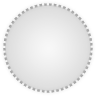
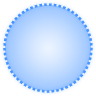
update maker range image to avoid filter in konva

diff --git a/src/components/FishListItemContent.vue b/src/components/FishListItemContent.vue
@@ -1,9 +1,9 @@
 <template>
   <v-col style="flex-direction: column">
     <v-row>
-      <v-expansion-panels hover flat :value="0">
+      <v-expansion-panels hover flat tile :value="0">
         <v-expansion-panel>
-          <v-expansion-panel-header>
+          <v-expansion-panel-header :color="color">
             <div style="display: flex; align-items: center; justify-content: center">
               <div class="text-subtitle-1">
                 {{ fish.zone }}
@@ -19,7 +19,7 @@
               </div>
             </div>
           </v-expansion-panel-header>
-          <v-expansion-panel-content>
+          <v-expansion-panel-content :color="color">
             <div>
               <!--              <div style="height: 400px; width: 100%; margin-top: 12px">-->
               <!--                <eorzea-map-->
@@ -33,7 +33,7 @@
               <!--                </eorzea-map>-->
               <!--              </div>-->
 
-              <div style="height: 1000px; width: 100%; margin-top: 12px">
+              <div style="width: 100%; margin-top: 12px">
                 <eorzea-simple-map
                   :debug="false"
                   :id="fish.fishingSpot.mapFileId"
@@ -79,15 +79,15 @@
     </div>
     <!--    </v-row>-->
     <v-row v-if="fish.hasCountDown">
-      <v-expansion-panels hover flat>
+      <v-expansion-panels hover flat tile>
         <v-expansion-panel>
-          <v-expansion-panel-header>
+          <v-expansion-panel-header :color="color">
             <div style="display: flex; justify-content: center">
               <div><v-icon>mdi-calendar</v-icon> {{ $t('countDown.fishWindowBtn') }}</div>
             </div>
           </v-expansion-panel-header>
-          <v-expansion-panel-content>
-            <v-simple-table>
+          <v-expansion-panel-content :color="color">
+            <v-simple-table :class="color" dense dark>
               <template v-slot:default>
                 <thead>
                   <tr>
@@ -207,6 +207,10 @@ export default {
       type: Array,
       default: () => [],
     },
+    color: {
+      type: String,
+      default: '',
+    }
   },
   data: () => ({
     fisher: fisher,

diff --git a/src/components/basic/EorzeaSimpleMap.vue b/src/components/basic/EorzeaSimpleMap.vue
@@ -16,7 +16,7 @@ import DataUtil from '@/utils/DataUtil'
 import fishMarker from '@/assets/fishingSpot.png'
 import markerRange from '@/assets/markerRange.png'
 import defaultMap from '@/assets/default.00.jpg'
-import Konva from 'konva'
+// import Konva from 'konva'
 
 export default {
   name: 'EorzeaSimpleMap',
@@ -117,10 +117,10 @@ export default {
         height: 96,
         scaleX: this.markerRangeFactor,
         scaleY: this.markerRangeFactor,
-        filters: [Konva.Filters.RGB],
-        red: 3,
-        green: 168,
-        blue: 244,
+        // filters: [Konva.Filters.RGB],
+        // red: 3,
+        // green: 168,
+        // blue: 244,
       }
     },
     allImageLoaded() {
@@ -163,12 +163,10 @@ export default {
     },
     resize() {
       const rect = this.$refs.container.getBoundingClientRect()
-      this.containerWidth = rect.width
-      this.containerHeight = Math.min(rect.width, rect.height)
-
-      const markerRangeNode = this.$refs.markerRangeNode.getNode()
-      markerRangeNode.cache()
-      markerRangeNode.getLayer().batchDraw()
+      this.containerHeight = this.containerWidth = rect.width
+      // const markerRangeNode = this.$refs.markerRangeNode.getNode()
+      // markerRangeNode.cache()
+      // markerRangeNode.getLayer().batchDraw()
     },
   },
 }

diff --git a/src/components/FishList.vue b/src/components/FishList.vue
@@ -32,13 +32,14 @@
               </div>
             </template>
           </v-expansion-panel-header>
-          <v-expansion-panel-content>
+          <v-expansion-panel-content :color="fishColors[index]">
             <fish-list-item-content
               :open="index === openPanelIndex"
               :value="fish"
               :fish-time-part="fishListTimePart[fish._id]"
               :fish-weather-change-part="fishListWeatherChangePart[fish._id]"
               :predators="getPredators(fish)"
+              :color="fishColors[index]"
             ></fish-list-item-content>
           </v-expansion-panel-content>
         </v-expansion-panel>
